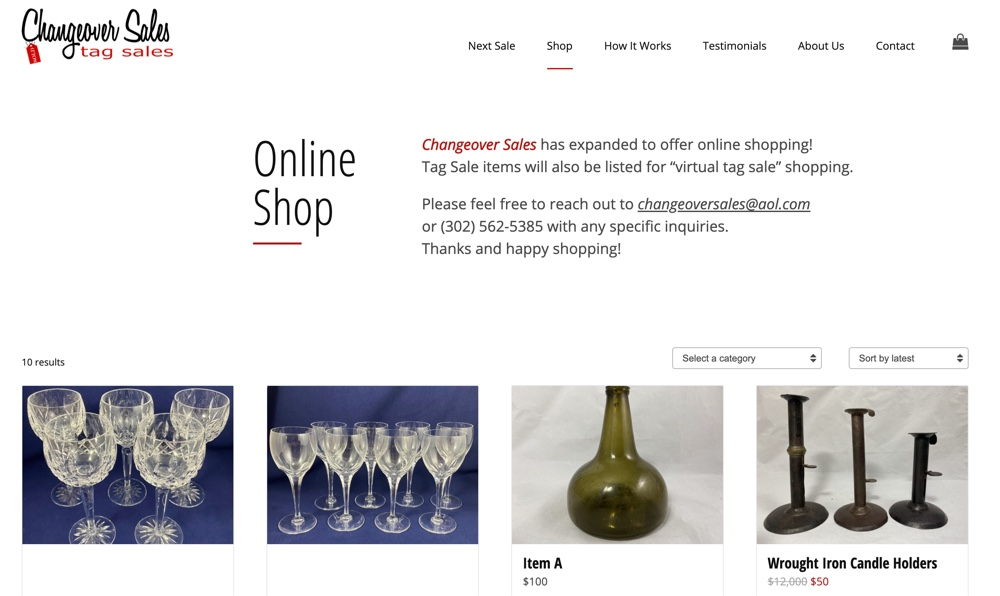
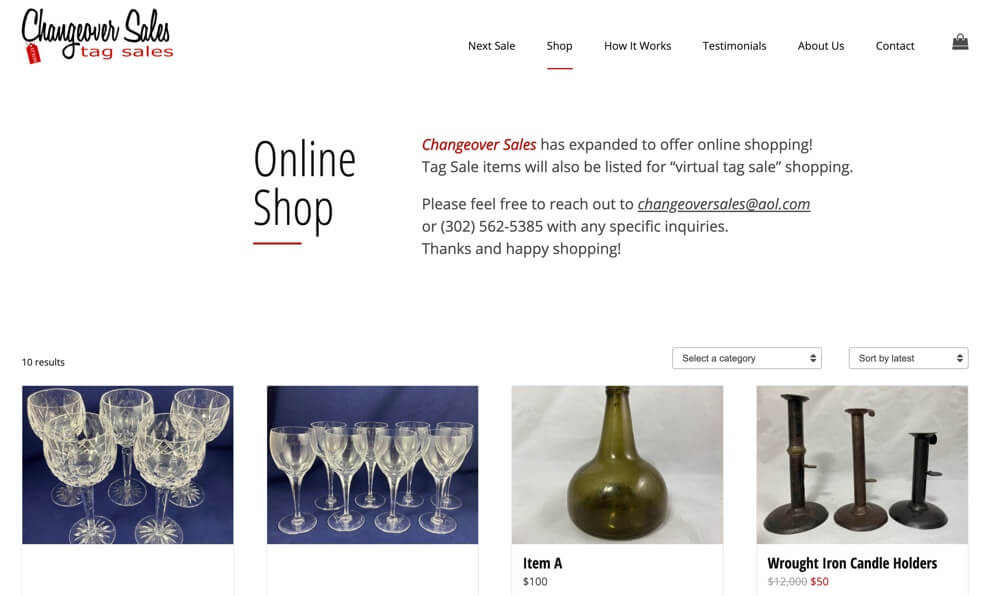
image compression

Changed region(s): [[0.434, 0.2416, 0.496, 0.2718], [0.124, 0.0604, 0.155, 0.0906], [0.062, 0.0604, 0.093, 0.0906]]

diff --git a/components/work.php b/components/work.php
@@ -10,7 +10,10 @@
         <div class="showcase-grid flex-row">
             <article class="work-example">
                 <div class="work-image">
-                    <img src="../assets/images/changeoversales.jpg" alt="Changeover Sales website">
+                    <picture>
+                        <source srcset="../assets/images/changeoversales.webp" type="image/webp">
+                        <img src="../assets/images/changeoversales.jpg" alt="Changeover Sales website">
+                    </picture>
                 </div>
 
                 <div class="work-details">
@@ -29,7 +32,10 @@
 
             <article class="work-example coming-soon">
                 <div class="work-image">
-                    <img src="../assets/images/wj-molding.jpg" alt="Acme Co website">
+                    <picture>
+                        <source srcset="../assets/images/wj-molding.webp" type="image/webp">
+                        <img src="../assets/images/wj-molding.jpg" alt="Acme Co website">
+                    </picture>
                 </div>
 
                 <div class="work-details">
@@ -48,7 +54,10 @@
 
             <article class="work-example coming-soon">
                 <div class="work-image">
-                    <img src="../assets/images/garrisons.jpg" alt="Acme Co website">
+                    <picture>
+                        <source srcset="../assets/images/garrisons.webp" type="image/webp">
+                        <img src="../assets/images/garrisons.jpg" alt="Acme Co website">
+                    </picture>
                 </div>
 
                 <div class="work-details">
